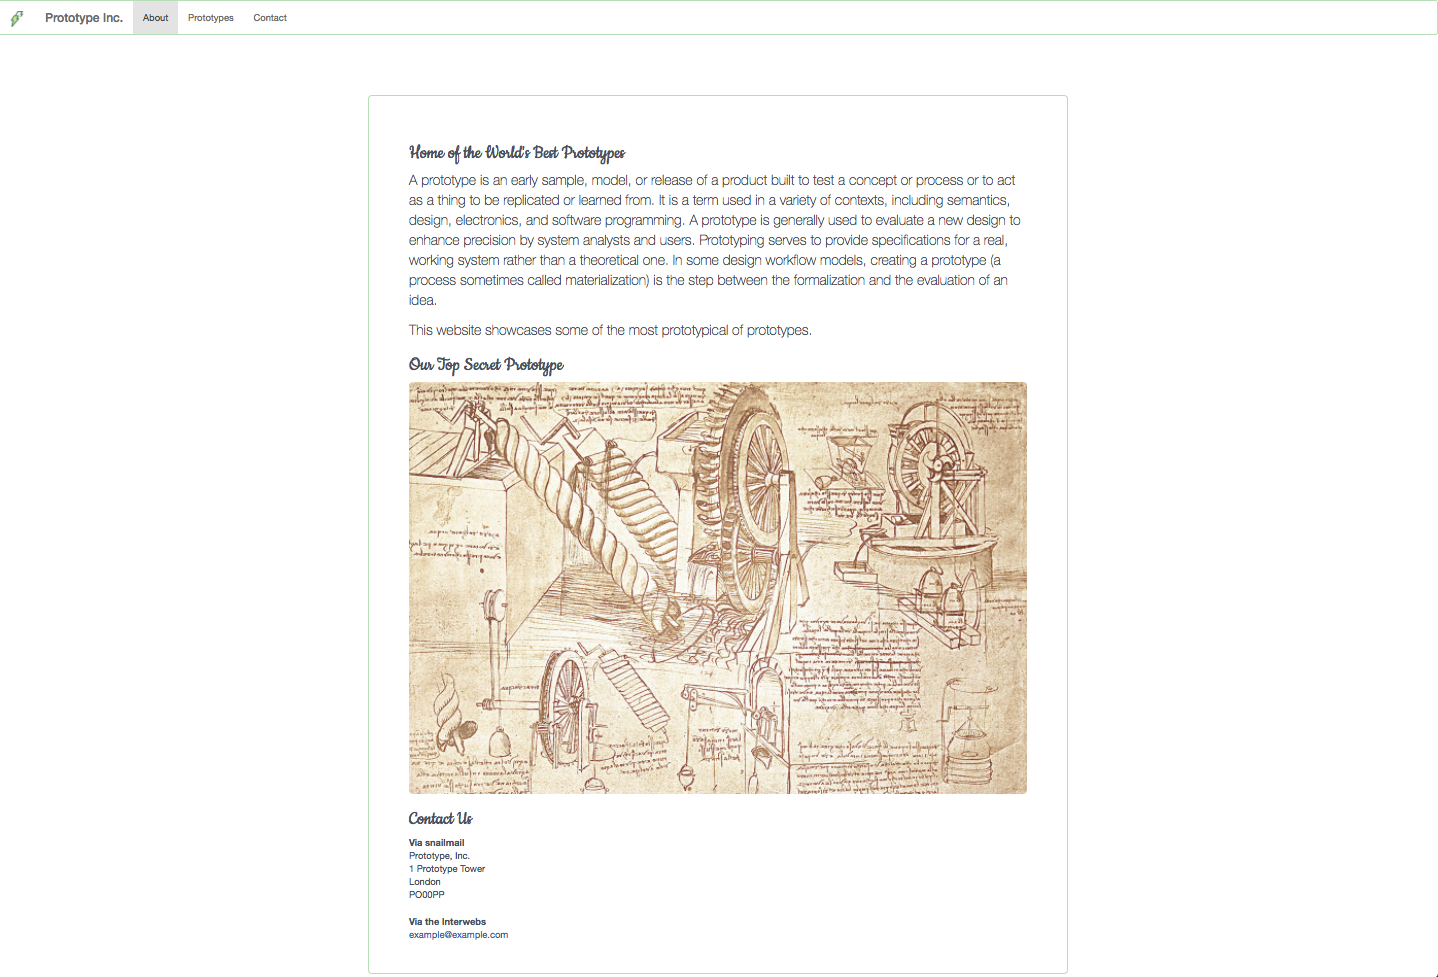
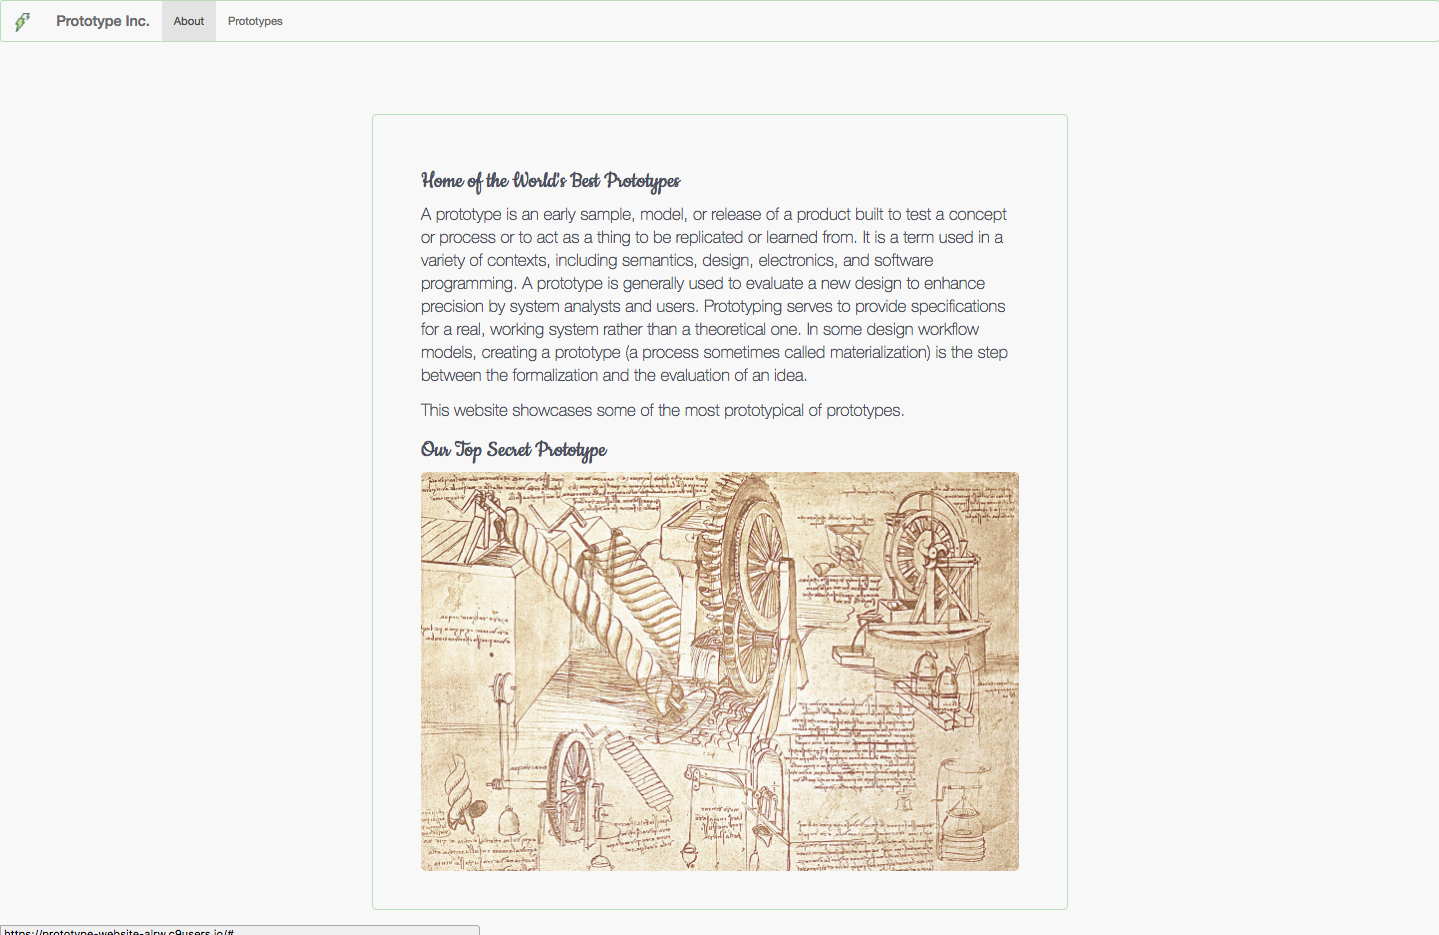
[AW] completed learning for javascript section

diff --git a/courseSections/section11.md b/courseSections/section11.md
@@ -27,7 +27,7 @@ Now as with our JQuery library we need to add our `app.js` to the page with the 
 <script src="/javascripts/app.js></script>
 ```
 
-Fantastic we can now start adding Javascript code to our page, which is just as well because it looks like our client has come back with some further requirements.
+Fantastic and it's just in time because it looks like our client has come back with some further requirements.
 
 Adding Functionality to our page
 --------------------------------
@@ -38,12 +38,6 @@ Having seen the initial site the client has been highly impressed and wants to e
 As a prototypical user
 I would like to see plans for a top secret prototype
 So that I can prototype it
-```
-
-```
-As a prototypical user
-I would like to be able to contact the owners of a prototypical site
-In order to ask them questions about their prototypes
 ```
 
 ```
@@ -67,7 +61,7 @@ Handily the client has also provided us with some wireframes of what they believ
 Creating the content
 --------------------
 
-This breaks down our work nicely. However as you may have realised before we can start using javascript to control our view of the page there is some content that we need to deliver for the first 3 user stories.
+This breaks down our work nicely. However as you may have realised before we can start using javascript to control our view of the page there is some content that we need to deliver.
 
 By now the HTML we need to add should be pretty familiar. For the first user story add the following within the `<div class="jumbotron" id="content">...</div>` below the `<div class="about"`.
 
@@ -78,34 +72,13 @@ By now the HTML we need to add should be pretty familiar. For the first user sto
 </div>
 ```
 
-And for the second user story add the following below that:
-
-```html
-<div class="contact hidden">
-  <h2>Contact Us</h2>
-
-  <strong>Via snailmail</strong>
-  <address>
-    Prototype, Inc.<br>
-    1 Prototype Tower <br>
-    London <br>
-    PO00PP
-  </address>
-
-  <strong>Via the interwebs</strong><br>
-  <a href="mailto:#>example@example.com</a>
-
-</div>
-```
-
-And lastly for the third user story add the following within the `<div class="container-fluid">...</div>` after the `<h4>...</h4>` element:
+And add the following within the `<div class="container-fluid">...</div>` after the `<h4>...</h4>` element:
 
 ```html
 <div class="collapse navbar-collapse">
   <ul class="nav navbar-nav">
     <li id="about" class="active"><a href="#">About</a></li>
     <li id="prototype"><a href="#">Prototype</a></li>
-    <li id="contact"><a href="#">Contact</a></li>
   </ul>
 </div>
 ```
@@ -113,3 +86,61 @@ And lastly for the third user story add the following within the `<div class="co
 Now with all of that content added if you refresh the page you should see a very cluttered website that looks a little like the following:
 
 ![Cluttered homepage](../images/clutteredHomepage.png)
+
+Now we can bring it all togather using a little CSS and Javascript. First we need to define a small piece of CSS that can be used to hide our elements. Add the following to your `application.css`.
+
+```css
+.hidden {
+    display: none;
+}
+```
+
+If you save the CSS file and reload the page you should now see that our homepage looks much like before. However, we currently have no way of making the hidden content show itself. Time to get the Javascript written.
+
+Showing and Hiding
+------------------
+
+When trying to work out how to write our code it is often good to first try and ignore the code completely and find a way to articulate each step the you want the program to take.
+
+This is such a good technique that it even has a name: [Rubber Duck Debugging](https://rubberduckdebugging.com/).
+
+So lets try it out here. What are the steps that we need to go through to get to a working solution.
+
+1. When we click on the *Prototypes* tab we want it to become active.
+2. When we click on the *Prototypes* tab we want to see the *prototypes* section content.
+3. When we click on the *Prototypes* tab we want the *About* tab to loose its active status.
+4. When we click on the *Prototypes* tab we want the *about* section to be hidden.
+
+Brilliant now that we have our sequence of events to code lets write that out in Javascript. In your `app.js` add the following:
+
+```javascript
+/* global $ */
+
+$(document).ready(function(){
+
+  $('#prototype').click(function(event){
+    event.preventDefault();
+    $('#prototype').addClass('active');
+    $('.prototype').removeClass('hidden');
+    $('#about').removeClass('active');
+    $('.about').addClass('hidden');
+  });
+
+});
+```
+
+Save the file, reload the page and try to click the prototypes tab. Does it work? 
+
+Now try clicking on the About tab to go back...not so good. We need to add another method to go back to our first tab. Luckily it should just be a reverse of what we've already written. Add this function below the first inside the `$(document).ready(function(){...});`
+
+```javascript
+$('#about').click(function(event){
+  event.preventDefault();
+  $('#about').addClass('active');
+  $('.about').removeClass('hidden');
+  $('#prototype').removeClass('active);
+  $('.prototype').addClass('hidden');
+});
+```
+
+Now if you save and reload your page you should be easily able to flick back and forth between the two tabs. Very nifty!

diff --git a/courseSections/wip.md b/courseSections/wip.md
@@ -1,0 +1,27 @@
+
+```
+As a prototypical user
+I would like to be able to contact the owners of a prototypical site
+In order to ask them questions about their prototypes
+```
+
+And for the second user story add the following below that:
+
+```html
+<div class="contact hidden">
+  <h2>Contact Us</h2>
+
+  <strong>Via snailmail</strong>
+  <address>
+    Prototype, Inc.<br>
+    1 Prototype Tower <br>
+    London <br>
+    PO00PP
+  </address>
+
+  <strong>Via the interwebs</strong><br>
+  <a href="mailto:#>example@example.com</a>
+
+</div>
+```
+
